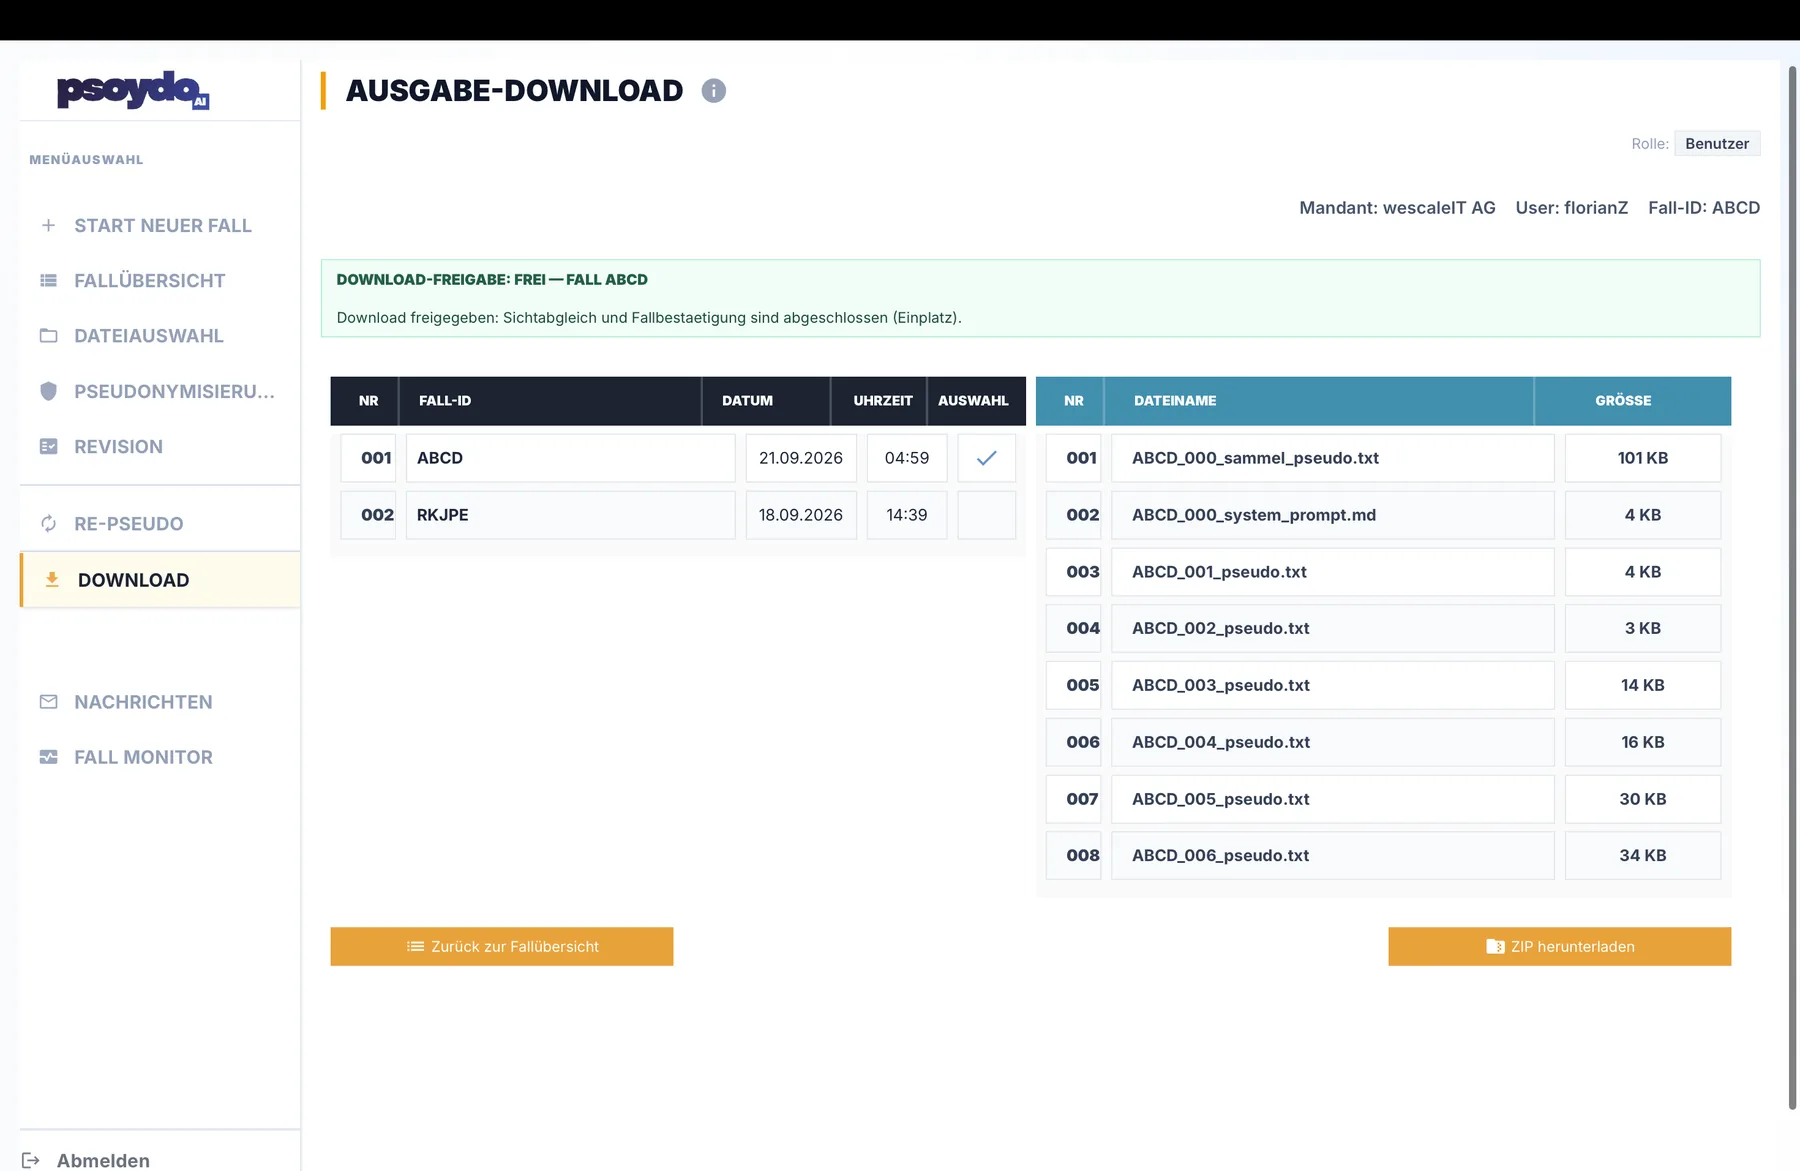
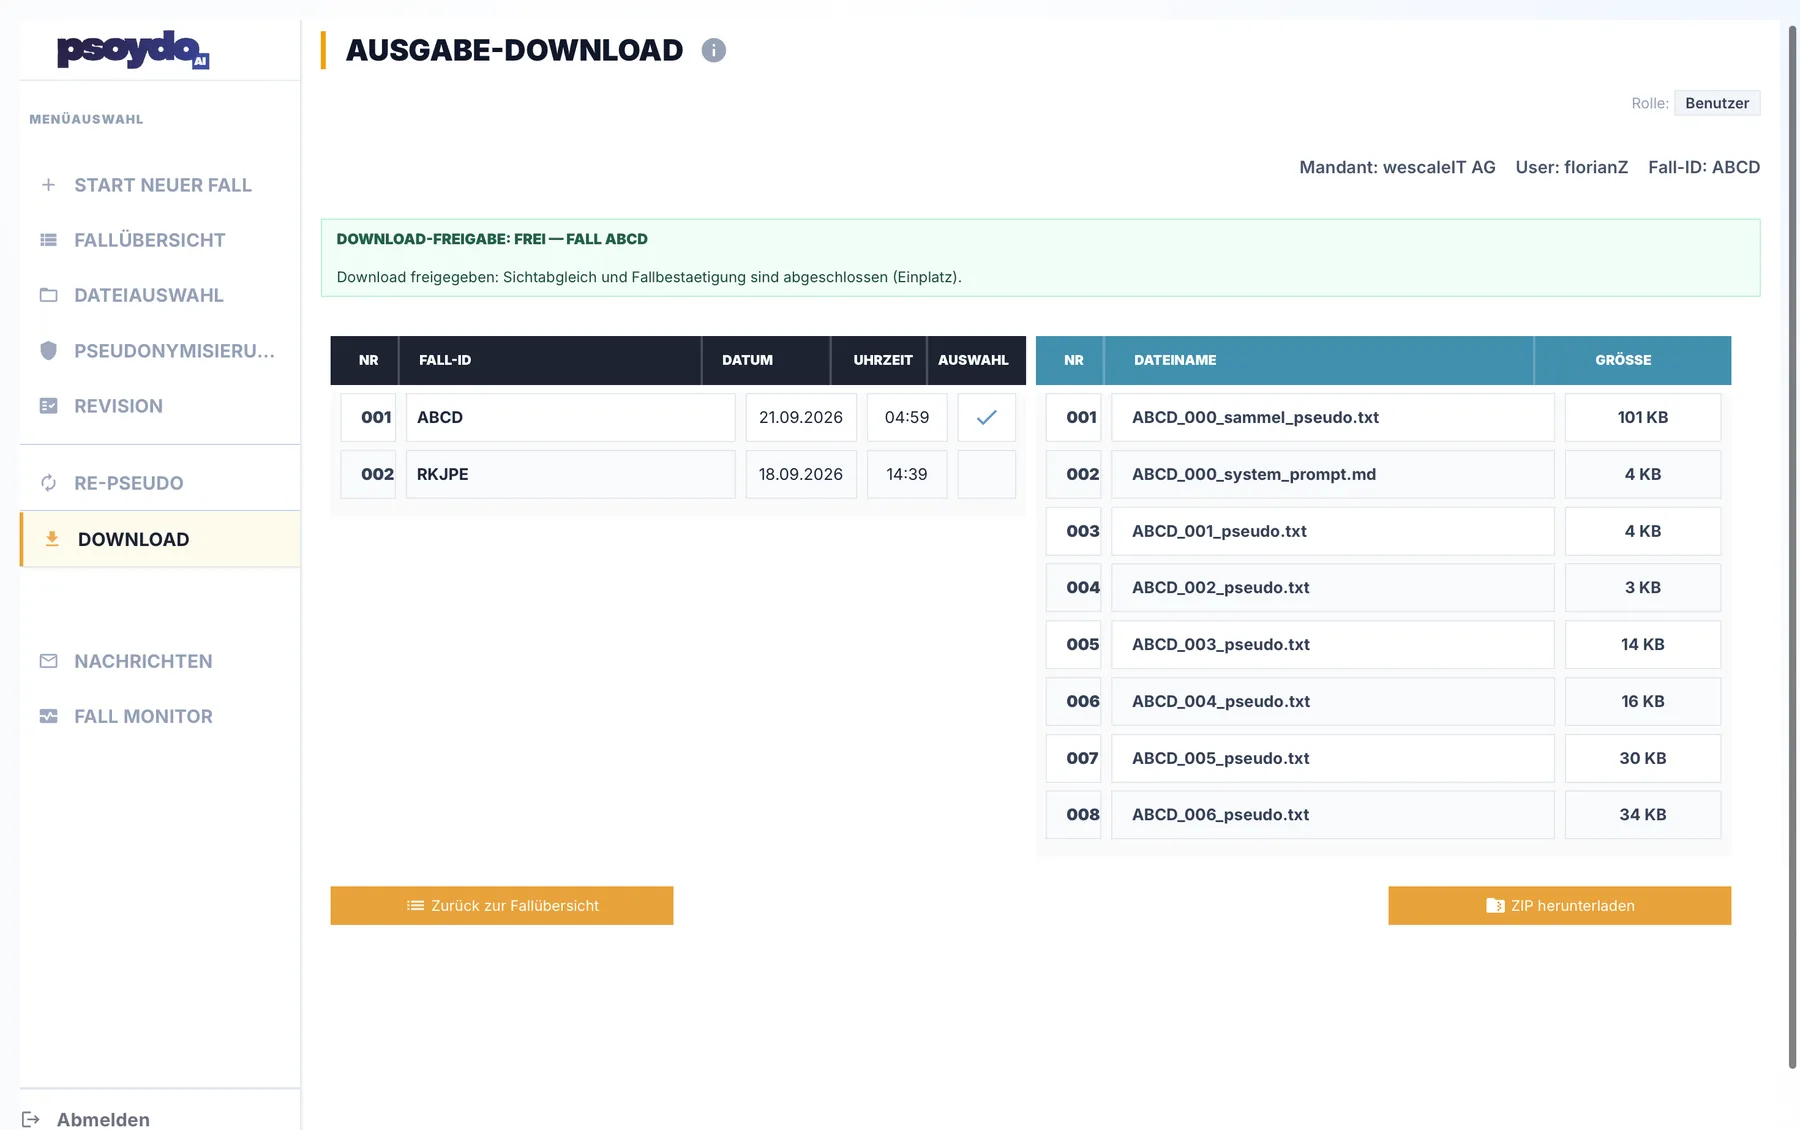
Crop screenshot top bars and add homepage proof gallery (#10)
* Add one-time screenshot crop workflow

* Crop black top bars from product screenshots

* Show three clickable product screenshots on homepage

* Style compact homepage screenshot gallery

* Bust cache for cropped product screenshots

* Bust cache for cropped revision screenshot

* Require three homepage screenshot lightboxes

* Validate homepage gallery images

* Bust cache for cropped homepage screenshots

* Remove one-time screenshot crop workflow

---------

diff --git a/de/index.html b/de/index.html
@@ -27,7 +27,7 @@
   <link rel="stylesheet" href="../styles.css?v=20260919-motion5">
   <link rel="stylesheet" href="../polish.css">
   <link rel="stylesheet" href="../pricing.css">
-  <link rel="stylesheet" href="../v3.css?v=20260921-lightbox1">
+  <link rel="stylesheet" href="../v3.css?v=20260921-gallery1">
   <script type="application/ld+json">{"@context":"https://schema.org","@graph":[{"@type":"Organization","@id":"https://psoydo.com/#organization","name":"wescaleIT AG","url":"https://wescaleit.com/"},{"@type":"WebSite","@id":"https://psoydo.com/#website","url":"https://psoydo.com/","name":"Psoydo","publisher":{"@id":"https://psoydo.com/#organization"},"inLanguage":"de-DE"},{"@type":"SoftwareApplication","@id":"https://psoydo.com/#software","name":"Psoydo","url":"https://psoydo.com/de/","applicationCategory":"BusinessApplication","description":"Psoydo trennt sensible Identitäten vom verwertbaren Kontext, bevor Inhalte ein externes KI-Modell erreichen."}]}</script>
 </head>
 <body>
@@ -205,17 +205,36 @@
       <div class="shell wide home2-proof-head">
         <div class="v3-index">ECHTES PRODUKT / KEIN MOCKUP</div>
         <div>
-          <h2>So sieht Psoydo<br><span>im echten Fall aus.</span></h2>
-          <p>Hier siehst du den Sichtabgleich aus einem realen Psoydo-Durchlauf: links das interne Ausgangsdokument, rechts die pseudonymisierte Ausgabe. Nicht als Konzeptgrafik, sondern direkt aus der Anwendung.</p>
+          <h2>Drei Einblicke.<br><span>Direkt aus Psoydo.</span></h2>
+          <p>Keine Konzeptgrafik: Hier siehst du drei echte Zustände aus dem Produkt — vom Sichtabgleich über die Revision bis zur finalen Freigabe. Klick auf einen Screenshot, um ihn groß anzusehen.</p>
         </div>
       </div>
-      <figure class="shell wide real-product-shot real-product-shot-home">
-        <button class="real-product-shot-frame real-product-shot-button" type="button" data-lightbox data-lightbox-title="Sichtabgleich: Original und pseudonymisierte Ausgabe" aria-label="Psoydo Sichtabgleich vergrößern">
-          <img loading="lazy" decoding="async" src="../assets/web/sichtabgleich.webp" alt="Psoydo Sichtabgleich mit internem Originaldokument und pseudonymisierter Ausgabe">
-          <span class="shot-zoom">Vergrößern <b>+</b></span>
-        </button>
-        <figcaption><span>ECHTER SCREENSHOT · SICHTABGLEICH</span><strong>Original intern. Pseudonymisierte Ausgabe kontrollierbar.</strong><em>Klick zum Vergrößern</em></figcaption>
-      </figure>
+
+      <div class="shell wide home-proof-gallery" aria-label="Psoydo Produktscreenshots">
+        <figure class="home-proof-card">
+          <button class="real-product-shot-frame real-product-shot-button" type="button" data-lightbox data-lightbox-title="Sichtabgleich: Original und pseudonymisierte Ausgabe" aria-label="Psoydo Sichtabgleich vergrößern">
+            <img loading="lazy" decoding="async" src="../assets/web/sichtabgleich.webp?v=20260921-crop1" alt="Psoydo Sichtabgleich mit internem Originaldokument und pseudonymisierter Ausgabe">
+            <span class="shot-zoom">Vergrößern <b>+</b></span>
+          </button>
+          <figcaption><span>01 / SICHTABGLEICH</span><strong>Original intern. Pseudonymisierte Ausgabe kontrollierbar.</strong></figcaption>
+        </figure>
+
+        <figure class="home-proof-card">
+          <button class="real-product-shot-frame real-product-shot-button" type="button" data-lightbox data-lightbox-title="Revisions-Cockpit: Prüfstufen und Fallstatus" aria-label="Psoydo Revisions-Cockpit vergrößern">
+            <img loading="lazy" decoding="async" src="../assets/web/revision.webp?v=20260921-crop1" alt="Psoydo Revisions-Cockpit mit Prüfstufen, Status und Fallfortschritt">
+            <span class="shot-zoom">Vergrößern <b>+</b></span>
+          </button>
+          <figcaption><span>02 / REVISION</span><strong>Prüfstufen und Status eines Falls nachvollziehen.</strong></figcaption>
+        </figure>
+
+        <figure class="home-proof-card">
+          <button class="real-product-shot-frame real-product-shot-button" type="button" data-lightbox data-lightbox-title="Abgeschlossener Fall mit freigegebenem Download" aria-label="Psoydo Download-Freigabe vergrößern">
+            <img loading="lazy" decoding="async" src="../assets/web/download.webp?v=20260921-crop1" alt="Psoydo abgeschlossener Fall mit freigegebenem Download">
+            <span class="shot-zoom">Vergrößern <b>+</b></span>
+          </button>
+          <figcaption><span>03 / FREIGABE</span><strong>Fall abgeschlossen. Ausgabe freigegeben.</strong></figcaption>
+        </figure>
+      </div>
     </section>
 
     <section class="home2-security" id="security">

diff --git a/de/produkt.html b/de/produkt.html
@@ -87,7 +87,7 @@
       </div>
       <figure class="shell wide real-product-shot">
         <button class="real-product-shot-frame real-product-shot-button" type="button" data-lightbox data-lightbox-title="Sichtabgleich: Original und Pseudonym-Ausgabe" aria-label="Sichtabgleich vergrößern">
-          <img loading="lazy" decoding="async" src="../assets/web/sichtabgleich.webp" alt="Psoydo Sichtabgleich zwischen Original und pseudonymisierter Ausgabe">
+          <img loading="lazy" decoding="async" src="../assets/web/sichtabgleich.webp?v=20260921-crop1" alt="Psoydo Sichtabgleich zwischen Original und pseudonymisierter Ausgabe">
           <span class="shot-zoom">Vergrößern <b>+</b></span>
         </button>
         <figcaption><span>SICHTABGLEICH · FALL ABCD</span><strong>Original und Pseudonym-Ausgabe in einer kontrollierten Ansicht.</strong><em>Klick zum Vergrößern</em></figcaption>
@@ -101,7 +101,7 @@
         </div>
         <figure class="real-product-shot compact">
           <button class="real-product-shot-frame real-product-shot-button" type="button" data-lightbox data-lightbox-title="Abgeschlossener Fall mit freigegebenem Download" aria-label="Download-Freigabe vergrößern">
-            <img loading="lazy" decoding="async" src="../assets/web/download.webp" alt="Psoydo abgeschlossener Fall mit freigegebenem Download">
+            <img loading="lazy" decoding="async" src="../assets/web/download.webp?v=20260921-crop1" alt="Psoydo abgeschlossener Fall mit freigegebenem Download">
             <span class="shot-zoom">Vergrößern <b>+</b></span>
           </button>
           <figcaption><span>DOWNLOAD-FREIGABE</span><strong>Fall abgeschlossen · Ausgabe freigegeben.</strong><em>Klick zum Vergrößern</em></figcaption>

diff --git a/v3.css b/v3.css
@@ -3937,3 +3937,73 @@ body.lightbox-open{overflow:hidden}
   .product-lightbox-body{padding:8px}
   .product-lightbox-body img{max-height:calc(96vh - 76px)}
 }
+
+
+/* V17 — homepage product gallery */
+.home-proof-gallery{
+  display:grid;
+  grid-template-columns:repeat(3,minmax(0,1fr));
+  gap:22px;
+  margin-top:68px;
+}
+.home-proof-card{
+  min-width:0;
+  margin:0;
+}
+.home-proof-card .real-product-shot-frame{
+  aspect-ratio:1800 / 1130;
+  border-radius:16px;
+  box-shadow:0 24px 70px rgba(7,16,13,.13);
+}
+.home-proof-card .real-product-shot-frame img{
+  width:100%;
+  height:100%;
+  object-fit:cover;
+}
+.home-proof-card figcaption{
+  display:flex;
+  flex-direction:column;
+  gap:9px;
+  padding:16px 4px 0;
+}
+.home-proof-card figcaption span{
+  font:500 8px var(--mono);
+  letter-spacing:.09em;
+  color:#087c57;
+}
+.home-proof-card figcaption strong{
+  font-size:13px;
+  line-height:1.45;
+  color:#2a3630;
+  font-weight:500;
+}
+.home-proof-card .shot-zoom{
+  right:10px;
+  bottom:10px;
+  padding:8px 10px;
+  font-size:8px;
+}
+.home-proof-card .shot-zoom b{
+  width:16px;
+  height:16px;
+  font-size:12px;
+}
+
+@media(max-width:780px){
+  .home-proof-gallery{
+    display:flex;
+    gap:14px;
+    margin-top:46px;
+    margin-right:calc(var(--shell-pad) * -1);
+    padding-right:var(--shell-pad);
+    overflow-x:auto;
+    overscroll-behavior-inline:contain;
+    scroll-snap-type:x mandatory;
+    scrollbar-width:none;
+  }
+  .home-proof-gallery::-webkit-scrollbar{display:none}
+  .home-proof-card{
+    flex:0 0 82vw;
+    scroll-snap-align:start;
+  }
+}

diff --git a/de/sicherheit.html b/de/sicherheit.html
@@ -68,7 +68,7 @@
       </div>
       <figure class="shell wide real-product-shot">
         <button class="real-product-shot-frame real-product-shot-button" type="button" data-lightbox data-lightbox-title="Revisions-Cockpit: Prüfstufen und Fallstatus" aria-label="Revisions-Cockpit vergrößern">
-          <img loading="lazy" decoding="async" src="../assets/web/revision.webp" alt="Psoydo Revisions-Cockpit mit Prüfstufen, Status und Fallfortschritt">
+          <img loading="lazy" decoding="async" src="../assets/web/revision.webp?v=20260921-crop1" alt="Psoydo Revisions-Cockpit mit Prüfstufen, Status und Fallfortschritt">
           <span class="shot-zoom">Vergrößern <b>+</b></span>
         </button>
         <figcaption><span>ECHTER SCREENSHOT · REVISION</span><strong>Prüfstufen und Status eines Psoydo-Falls.</strong><em>Klick zum Vergrößern</em></figcaption>

diff --git a/scripts/qa_site.py b/scripts/qa_site.py
@@ -200,7 +200,7 @@ def main() -> int:
         fail(errors, "de/index.html: problem section must not duplicate the business use-case list")
 
     lightbox_pages = {
-        "de/index.html": 1,
+        "de/index.html": 3,
         "de/produkt.html": 2,
         "de/sicherheit.html": 1,
     }
